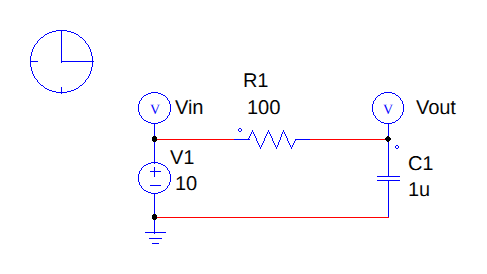
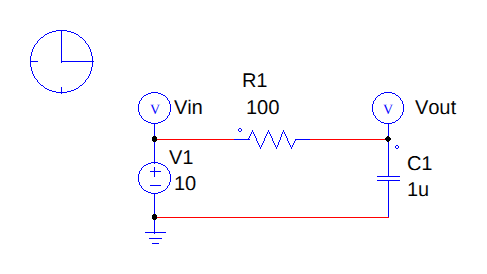
Make native-look text independent of Pillow's layout engine; add step-by-step skill guides
On macOS Pillow often has no raqm, so the basic engine's hinted advances
made the PSIM render one pixel wider than on Linux/Windows and failed CI.
Text is now laid out glyph by glyph with unhinted advances and no kerning,
as the native export does, giving byte-identical output with either engine.
A regression test forces the basic engine and compares the bytes.

Both SKILL.md files gain a step-by-step section: the command for each step,
the JSON field to read, fixes by finding code and a table of common errors.
Docs, README sample renders and figures are updated (PSIM 97.0%).

Claude-Session: https://claude.ai/code/session_01Tc6YNwJ4CGRcqr4sAM79Gj

diff --git a/skills/ad-schematic-layout/scripts/canvas.py b/skills/ad-schematic-layout/scripts/canvas.py
@@ -288,8 +288,16 @@ class Gdi(Svg):
         key = 'cjk' if _cjk(value) and 'cjk' in self.faces else family
         return self.faces.get(key) or self.faces.get('serif')
 
+    def font(self, face, pixels):
+        from PIL import ImageFont
+
+        key = (face['path'], face.get('index', 0), pixels)
+        if key not in self.fonts:
+            self.fonts[key] = ImageFont.truetype(face['path'], pixels, index=face.get('index', 0))
+        return self.fonts[key]
+
     def text(self, x, y, value, size, fill, family='serif', rotation=0, anchor='start', bold=False, italic=False):
-        from PIL import Image, ImageDraw, ImageFont
+        from PIL import Image, ImageDraw
 
         if not value:
             return
@@ -297,19 +305,27 @@ class Gdi(Svg):
         if face is None:
             raise RuntimeError('没有找到可用的 Times New Roman/Arial 或同度量字体')
         em = max(4, round(size * self.scale))
-        key = (face['path'], face.get('index', 0), em)
-        if key not in self.fonts:
-            self.fonts[key] = ImageFont.truetype(face['path'], em * 3, index=face.get('index', 0))
-        font = self.fonts[key]
-        horizontal = {'start': 'l', 'middle': 'm', 'end': 'r'}[anchor]
-        left, top, right, bottom = font.getbbox(value, anchor=horizontal + 's')
+        font = self.font(face, em * 3)
+        # 逐字排版：步进取大字号下的无微调步进，不做字距调整（GDI 的 TextOut 也不做）。Pillow 有没有
+        # raqm 排版引擎（Mac 上常没有）都得到同样的字位，原生预览的尺寸不随机器变化。
+        big = self.font(face, ADVANCE_SIZE)
+        pens, pen = [], 0.0
+        for char in value:
+            pens.append(pen)
+            pen += big.getlength(char) * em * 3 / ADVANCE_SIZE
+        pens = [p - {'start': 0, 'middle': pen / 2, 'end': pen}[anchor] for p in pens]
+        boxes = [(p + b[0], b[1], p + b[2], b[3]) for p, b in zip(pens, (font.getbbox(c, anchor='ls') for c in value))]
+        left, top = min(b[0] for b in boxes), min(b[1] for b in boxes)
+        right, bottom = max(b[2] for b in boxes), max(b[3] for b in boxes)
         pad = 2
         # 三倍分辨率绘制再折回：纵向三行合一，横向保留三个子像素做 1-2-3-2-1 滤波，得到 RGB 三路覆盖率。
         ax, ay = 3 * (pad + math.ceil(-left / 3)), 3 * (pad + math.ceil(-top / 3))
         width3 = ax + 3 * (math.ceil(right / 3) + pad)
         height3 = ay + 3 * (math.ceil(bottom / 3) + pad)
         mask = Image.new('L', (width3, height3), 0)
-        ImageDraw.Draw(mask).text((ax, ay), value, fill=255, font=font, anchor=horizontal + 's')
+        draw = ImageDraw.Draw(mask)
+        for char, p in zip(value, pens):
+            draw.text((ax + p, ay), char, fill=255, font=font, anchor='ls')
         coverage = _subpixel(_rows(mask))
         px, py = self.p(x, y)
         # GDI 把文字原点（基线）对齐到整像素。
@@ -452,6 +468,8 @@ def _find_faces(font_files, font_dirs):
 
 # 与原生导出逐像素比对标定：三行平均后把 20% 以下的覆盖率压为 0、80% 以上压满，接近 GDI 纵向的硬边。
 TEXT_EDGE = 0.2
+# 量字宽步进用的字号：字号够大时，basic 引擎取整后的步进与 raqm 的无微调步进相差不到 0.01 像素。
+ADVANCE_SIZE = 2048
 
 
 def _rows(mask):

diff --git a/skills/psim-simulation-layout/scripts/canvas.py b/skills/psim-simulation-layout/scripts/canvas.py
@@ -288,8 +288,16 @@ class Gdi(Svg):
         key = 'cjk' if _cjk(value) and 'cjk' in self.faces else family
         return self.faces.get(key) or self.faces.get('serif')
 
+    def font(self, face, pixels):
+        from PIL import ImageFont
+
+        key = (face['path'], face.get('index', 0), pixels)
+        if key not in self.fonts:
+            self.fonts[key] = ImageFont.truetype(face['path'], pixels, index=face.get('index', 0))
+        return self.fonts[key]
+
     def text(self, x, y, value, size, fill, family='serif', rotation=0, anchor='start', bold=False, italic=False):
-        from PIL import Image, ImageDraw, ImageFont
+        from PIL import Image, ImageDraw
 
         if not value:
             return
@@ -297,19 +305,27 @@ class Gdi(Svg):
         if face is None:
             raise RuntimeError('没有找到可用的 Times New Roman/Arial 或同度量字体')
         em = max(4, round(size * self.scale))
-        key = (face['path'], face.get('index', 0), em)
-        if key not in self.fonts:
-            self.fonts[key] = ImageFont.truetype(face['path'], em * 3, index=face.get('index', 0))
-        font = self.fonts[key]
-        horizontal = {'start': 'l', 'middle': 'm', 'end': 'r'}[anchor]
-        left, top, right, bottom = font.getbbox(value, anchor=horizontal + 's')
+        font = self.font(face, em * 3)
+        # 逐字排版：步进取大字号下的无微调步进，不做字距调整（GDI 的 TextOut 也不做）。Pillow 有没有
+        # raqm 排版引擎（Mac 上常没有）都得到同样的字位，原生预览的尺寸不随机器变化。
+        big = self.font(face, ADVANCE_SIZE)
+        pens, pen = [], 0.0
+        for char in value:
+            pens.append(pen)
+            pen += big.getlength(char) * em * 3 / ADVANCE_SIZE
+        pens = [p - {'start': 0, 'middle': pen / 2, 'end': pen}[anchor] for p in pens]
+        boxes = [(p + b[0], b[1], p + b[2], b[3]) for p, b in zip(pens, (font.getbbox(c, anchor='ls') for c in value))]
+        left, top = min(b[0] for b in boxes), min(b[1] for b in boxes)
+        right, bottom = max(b[2] for b in boxes), max(b[3] for b in boxes)
         pad = 2
         # 三倍分辨率绘制再折回：纵向三行合一，横向保留三个子像素做 1-2-3-2-1 滤波，得到 RGB 三路覆盖率。
         ax, ay = 3 * (pad + math.ceil(-left / 3)), 3 * (pad + math.ceil(-top / 3))
         width3 = ax + 3 * (math.ceil(right / 3) + pad)
         height3 = ay + 3 * (math.ceil(bottom / 3) + pad)
         mask = Image.new('L', (width3, height3), 0)
-        ImageDraw.Draw(mask).text((ax, ay), value, fill=255, font=font, anchor=horizontal + 's')
+        draw = ImageDraw.Draw(mask)
+        for char, p in zip(value, pens):
+            draw.text((ax + p, ay), char, fill=255, font=font, anchor='ls')
         coverage = _subpixel(_rows(mask))
         px, py = self.p(x, y)
         # GDI 把文字原点（基线）对齐到整像素。
@@ -452,6 +468,8 @@ def _find_faces(font_files, font_dirs):
 
 # 与原生导出逐像素比对标定：三行平均后把 20% 以下的覆盖率压为 0、80% 以上压满，接近 GDI 纵向的硬边。
 TEXT_EDGE = 0.2
+# 量字宽步进用的字号：字号够大时，basic 引擎取整后的步进与 raqm 的无微调步进相差不到 0.01 像素。
+ADVANCE_SIZE = 2048
 
 
 def _rows(mask):

diff --git a/skills/psim-simulation-layout/scripts/render.py b/skills/psim-simulation-layout/scripts/render.py
@@ -27,6 +27,8 @@ STROKE = 0.5
 NATIVE_MARGIN_PX = 30
 # 仿原生（gdi）默认比例与像素对齐：与 PSIM 2026 参考导出（dpi 120）逐像素比对标定，见 docs/VALIDATION.md。
 NATIVE_LOOK = {'scale': 1.555, 'offset': (0.5, 0.125)}
+# 原生导出不做字距调整，文字起点比按步进排出的位置偏左约 0.75 像素（同上标定；取可行区间的中点）。
+NATIVE_TEXT_DX_PX = -0.75
 
 
 def _bounds(plan):
@@ -147,10 +149,12 @@ def render_plan(plan, target, scale=None, margin=20, **canvas_options):
     for p, count in connections.items():
         if count >= 3 or (count >= 1 and any(inside(p, s) for s in wires)):
             canvas.ellipse(p[0] - shift[0], p[1] - shift[1], 1.5, 1.5, DOT, 0.3, DOT)
+    nudge = NATIVE_TEXT_DX_PX / canvas.sx if canvas.renderer == 'gdi' else 0
     for element in plan['elements']:
         for label in element.get('textlinks', []):
             x, baseline, em = text_origin(label)
-            canvas.text(x - shift[0], baseline - shift[1], display_text(element, label['FieldName']), em, TEXT, 'sans')
+            value = display_text(element, label['FieldName'])
+            canvas.text(x - shift[0] + nudge, baseline - shift[1], value, em, TEXT, 'sans')
     if canvas.renderer == 'gdi':
         # PSIM 原生导出以墨迹范围为准，四周各留 30 像素。
         canvas.crop_to_ink(NATIVE_MARGIN_PX)

diff --git a/tests/test_native_look.py b/tests/test_native_look.py
@@ -108,6 +108,26 @@ class NativeLook(unittest.TestCase):
         self.assertEqual(size, rendered)
         self.assertGreater(same, 0.95)
 
+    def test_render_does_not_depend_on_pillow_layout_engine(self):
+        # Mac 上的 Pillow 常没有 raqm，只能用 basic 引擎；两种引擎画出的图必须逐字节相同。
+        from PIL import ImageFont
+
+        truetype = ImageFont.truetype
+
+        def basic(*args, **kwargs):
+            return truetype(*args, layout_engine=ImageFont.Layout.BASIC, **kwargs)
+
+        with load(PSIM, 'canvas', 'render') as (canvas, render), tempfile.TemporaryDirectory() as d:
+            if not canvas.gdi_available():
+                self.skipTest('没有 Arial 或同度量字体')
+            default = Path(render.render_plan(plan(PSIM), Path(d) / 'default.png')['render']).read_bytes()
+            ImageFont.truetype = basic
+            try:
+                forced = Path(render.render_plan(plan(PSIM), Path(d) / 'basic.png')['render']).read_bytes()
+            finally:
+                ImageFont.truetype = truetype
+        self.assertEqual(default, forced)
+
     def test_svg_and_explicit_backends_are_unchanged(self):
         with load(PSIM, 'render') as (render,), tempfile.TemporaryDirectory() as d:
             self.assertEqual(render.render_plan(plan(PSIM), Path(d) / 'p.svg')['renderer'], 'svg')

diff --git a/skills/ad-schematic-layout/SKILL.md b/skills/ad-schematic-layout/SKILL.md
@@ -37,6 +37,32 @@ metadata:
 
 在 Mac/Linux 上工作时，用 `handoff` 准备完整任务目录，传到 Windows 双击 `run.bat`，再用 `receive` 校验接收。PNG 渲染默认仿 Windows 原生出图（RC 示例与原生导出尺寸相同，线条和文字像素 97.8% 在 1 像素内对齐），用来在没有 AD 时看效果；对外和最终确认仍以接收回来的原生 PNG 为准，接收器不重绘它。详见 [交接与结果一致性](references/handoff.md)。
 
+## 逐步操作（照着做）
+
+每条命令都在本技能目录下运行，打印 JSON。只按 JSON 里的字段判断成败，不凭感觉。
+
+1. **看环境。** `python scripts/native_ad.py env`，看本机有没有 AD、仿原生预览能不能用。没有 AD 也能生成 SchDoc，只是编译和原生出图要到 Windows 上做。
+2. **从示例开始写计划。** 把 [assets/rc-filter-plan.json](assets/rc-filter-plan.json) 复制成 `work/plan.json` 再改，不要从空白写起。`units` 固定 `"10mil"`，坐标向右、向上；R/C/L/Y 写 `ref`、`value`、`at`（中心）和 `vertical`；芯片和接插件写 `body` 与 `pins`（`number`、`name`、`at` 在框边上、`direction`）。`pin_map` 写每个引脚应属的网络，预检靠它核对连接。
+3. **坐标规则。** 引脚热端、导线端点、标号和电源端口锚点都在 10 的倍数上；导线点可以直接写 `"R1.1"` 这样的引脚名，斜线会自动补成直角折线；局部外围直接连线，跨区才用网络标号；电源符号朝上、地朝下，就近放在引脚处。
+4. **预检到 0 error。** `python scripts/native_ad.py check work/plan.json --preview draft.png`。看 `summary.errors`：
+   - 每条 finding 都有 `code`、`message`、`hint`，按 `hint` 改计划。
+   - 文字问题（`TEXT_OVERLAP`、`TEXT_ON_PART`、`TEXT_ON_GRAPHICS`、`TEXT_NEAR_LINE`、`OUTSIDE_BORDER`）不要手算坐标，写操作清单 `[{"op": "place_text", "all": true}]`，运行 `edit work/plan.json ops.json work/plan2.json`，再对新文件 `check`。
+   - `PART_OVERLAP` 用 `move` 拉开器件；`PIN_OFF_GRID` 把坐标改成 10 的倍数；`TOPOLOGY_MISMATCH` 说明导线和 `pin_map` 对不上，按 finding 里的引脚改导线；内容太散或太挤用 `fit_canvas`。
+   - 重复到 `errors` 为 0。warning 能改就改，留下的在交付说明里写理由。
+5. **离线预测。** `python scripts/native_ad.py preflight work/plan2.json preflight/`。`ready_for_windows` 为 true 才继续；为 false 时按 `blocking` 逐条修。`expected_warnings` 是预计的编译 warning（例如缺封装），要在交付说明里写明。
+6. **生成工程。** `python scripts/native_ad.py create work/plan2.json out/`，得到 `.SchDoc` 和 `.PrjPcb`。任何系统生成的文件都相同，拷到 Windows 双击 `.PrjPcb` 就能用 AD 打开。不要手写或改动 SchDoc 二进制。
+7. **Windows 原生确认。** 在装有 AD 的 Windows 上运行 `verify`（编译并比较网表）和 `export`（`text_review` 必须通过）。在 Mac/Linux 上就用 `handoff work/plan2.json job/`，把 `job/` 拷到 Windows 双击 `run.bat`，拿回 `native-results/` 后运行 `receive`。
+8. **交付。** `deliver out/ delivery/ --name 项目名`。
+
+常见错误：
+
+| 现象 | 处理 |
+| --- | --- |
+| `create` 拒绝写出 | 预检还有 error，回到第 4 步 |
+| Windows 上找不到 AD | 设置 `AD_EXE` 为 `X2.EXE` 的完整路径（带不带引号都行），再运行 |
+| `run.bat` 提示缺 Python 或 Pillow | 按窗口里给的命令安装 Python 3.11+ 和 Pillow 后重跑 |
+| 运放、MOSFET 都成了方框 | 基础生成器只画矩形器件和 R/C/L/Y，这类器件用原生库，见 [原生操作与电气检查](references/native-and-electrical.md) |
+
 ## 命令速查
 
 所有命令在本技能目录下运行，输出 JSON：

diff --git a/docs/VALIDATION.md b/docs/VALIDATION.md
@@ -45,7 +45,7 @@ PSIM 当前 RC 基准 CSV 与交接任务返回 CSV 的 SHA-256 相同：
 python -m unittest discover -s tests -v
 ```
 
-无需 AD 或 PSIM。CI 配置 Windows、macOS、Linux 与 Python 3.10/3.13；1.2.0 在本机 Windows/Python 3.12 运行 84 项测试，1.3.0 的修改在 Linux 上用 Python 3.10 和 3.13 运行 121 项（3.13 装 Pillow 13 和 resvg-py 时全部运行；Python 3.10 没有 Pillow 和 resvg-py，跳过仿原生出图等 6 项）。覆盖：
+无需 AD 或 PSIM。CI 配置 Windows、macOS、Linux 与 Python 3.10/3.13；1.2.0 在本机 Windows/Python 3.12 运行 84 项测试，1.3.0 的修改在 Linux 上用 Python 3.10 和 3.13 运行 122 项（3.13 装 Pillow 13 和 resvg-py 时全部运行；Python 3.10 没有 Pillow 和 resvg-py，跳过仿原生出图等 7 项）。覆盖：
 
 - 排版预检：两项示例 0 error、0 warning；悬空线、浮空标号、离栅格热端、隐式短接、不可编码字符等结构错误；文字重叠、穿件导线、四向连接、浮动标题、稀疏图面等版面问题；PSIM 的文字压符号、导线穿符号、仿真控制位置、参数写法。
 - SchDoc 读写：标准库读写复合文档；二进制引脚记录解码；示例生成文件的 SHA-256 固定（跨系统字节一致）；导入后重建的记录完全相同；各缩放比例下无源件热端在栅格上。
@@ -58,7 +58,7 @@ python -m unittest discover -s tests -v
 - 输入输出同路径保护、报告不得覆盖已有文件或本次生成的计划/检查文件、附加参数保留、模型关联拒绝静默丢失、GBK/UTF-8 文字解码。
 - 交接任务自包含、显式依赖、原生结果接收、文件被改动/请求错配/失败结果/路径越界拒收；计划目录外的依赖被拒绝；准备失败后目录可重用。
 - AD 预检草图输出 SVG（只用标准库）和 PNG（resvg-py 或 Pillow）。
-- 仿原生出图：AD、PSIM 的 RC 示例与仓库里的 Windows 原生导出逐像素比较，图像尺寸相同，线条和文字像素至少 95% 在 1 像素内对齐（实测 AD 97.8%、PSIM 97.1%，不计白底）；方法与前后对比见 [预览后端](preview-backends.md)。
+- 仿原生出图：AD、PSIM 的 RC 示例与仓库里的 Windows 原生导出逐像素比较，图像尺寸相同，线条和文字像素至少 95% 在 1 像素内对齐（实测 AD 97.8%、PSIM 97.0%，不计白底）；Pillow 有无 raqm 排版引擎出图逐字节相同（macOS 常没有 raqm）；方法与前后对比见 [预览后端](preview-backends.md)。
 - PSIM 文字定位：按"起点 = AREA 水平中心 - FormatFactor、字号 6/7·|FontSize|"估算的 7 段文字，与原生导出实测位置相差不超过 2 个单位；文字离电源太近时报出。
 - 文字重叠：两项预检把文字互相重叠列为 error，文字离线条不到 2 个单位报 `TEXT_NEAR_LINE`；`place_text` 把故意弄乱的 AD、PSIM 示例修到 0 个文字问题，没有问题的计划不改动，`all` 把挪开的文字放回标准位置。另在测试之外做过随机压力试验：AD 954 个随机弄乱的版面（其中 478 个器件间距只有 80–100、文字偏移达 ±50）、PSIM 1181 个（其中 590 个元件间距只有 70–90、文字偏移达 ±60），`place_text` 全部修到 0 个文字问题；`all` 放回标准位置后 AD 120 个、PSIM 200 个也都没有文字问题；行距只有 20 的 AD 梯形网络也修到 0 个文字问题。
 - 离线预仿真：RC 阶跃与解析解最大偏差小于 1e-4 V（实测约 3e-5 V），RL 阶跃电流、RC 正弦稳态幅值与解析值一致；遇到开关等元件拒绝；步长过粗报出。

diff --git a/CHANGELOG.md b/CHANGELOG.md
@@ -4,7 +4,7 @@
 
 ### 新增 / Added
 
-- 仿 Windows 原生出图（`--renderer gdi`，PNG 默认）：按仓库里的原生导出逐像素标定比例、线宽、取整和 ClearType 式文字；RC 示例与原生图尺寸相同，线条和文字像素 AD 97.8%、PSIM 97.1% 在 1 像素内对齐（不计白底）。优先用系统的 Times New Roman/Arial，没有时用字宽相同的 Liberation 字体；`env` 显示所用字体。
+- 仿 Windows 原生出图（`--renderer gdi`，PNG 默认）：按仓库里的原生导出逐像素标定比例、线宽、取整和 ClearType 式文字；RC 示例与原生图尺寸相同，线条和文字像素 AD 97.8%、PSIM 97.0% 在 1 像素内对齐（不计白底）。优先用系统的 Times New Roman/Arial，没有时用字宽相同的 Liberation 字体；`env` 显示所用字体。
 - `preflight`：上 Windows 前的离线预测。AD 给出预计的编译 error/warning（RC 示例预测 4 条缺少封装，与实测一致）和网表对照；PSIM 给出仿原生预览和离线预仿真。`ready_for_windows` 为 true 时没有已知阻碍。
 - `presim`（PSIM）：用与 PSIM 同类的算法（节点分析 + 固定步长梯形积分）离线预仿真 R、L、C、直流源、正弦源和电压探头组成的线性电路，输出 CSV 并检查步长和时长；其他元件直接拒绝。
 - 交接任务带上离线预测；Windows 运行后返回清单的 `forecast` 记录预测与实际的对照。
@@ -24,6 +24,8 @@
 - 32 位或 ARM64 的 Python 载入 PSIM 接口失败时，报出当前 Python 的架构并提示改用与 PSIM 相同架构的 Python。
 - `PSIM_DIR`、`AD_EXE` 带引号也能找到（资源管理器“复制文件地址”和 `set X="..."` 会把引号带进去）；`build.bat` 不再把 `PSIM_DIR` 作为参数转交，以反斜杠结尾的路径不会再把后面的参数吞掉。
 - AD 左右朝向的电源端口名称按 AD 的规则从符号末端向外读，不再误报压在自己的符号上。
+- 仿原生出图逐字排版：字宽取无微调步进，不做字距调整（与原生导出一致）；Mac 上 Pillow 没有 raqm 排版引擎时也得到与 Linux、Windows 相同的图像尺寸和像素。
+- 两个 SKILL.md 增加“逐步操作（照着做）”：每一步的命令、要看的 JSON 字段、按 finding 代码的处理方法和常见错误表。
 - MCP 的 `--with` 相对路径先按当前目录找，找不到再按 `mcp_server.py` 所在目录找；目录里没有 `mcp_tools.py` 时直接报错，不再启动后崩溃。
 
 This release adds a Windows-look renderer calibrated against native exports, offline forecasts (`preflight`), linear PSIM pre-simulation (`presim`), automatic label placement (`place_text`) and one-click opening on Windows. Overlapping text is now an error in both checkers. `build.bat` and `run.bat` check Python first, keep the window open on failure and can simply be run again after a fix. psimsch remains PSIM's closed format: it is written by PSIM itself on Windows and then opened automatically.

diff --git a/README.en.md b/README.en.md
@@ -21,7 +21,7 @@ Use them as skills in Claude Code, Codex, Gemini CLI, GitHub Copilot, Cursor, Op
 | Windows native export | ![AD native export](docs/images/ad-native-rc.png) | ![PSIM native export](docs/images/psim-native-rc.png) |
 | Mac/Linux Windows-look render (no AD/PSIM) | ![AD Windows-look render](docs/images/ad-rc-render.png) | ![PSIM Windows-look render](docs/images/psim-rc-render.png) |
 
-The second row was produced by this package on Linux without AD or PSIM. Compared pixel by pixel with the Windows native exports in the first row, the images have the same size, and counting only lines and text (not the white background) 97.8% (AD) and 97.1% (PSIM) of the pixels line up within one pixel; the remaining differences are mostly anti-aliasing at text edges. The method is in [docs/VALIDATION.md](docs/VALIDATION.md).
+The second row was produced by this package on Linux without AD or PSIM. Compared pixel by pixel with the Windows native exports in the first row, the images have the same size, and counting only lines and text (not the white background) 97.8% (AD) and 97.0% (PSIM) of the pixels line up within one pixel; the remaining differences are mostly anti-aliasing at text edges. The method is in [docs/VALIDATION.md](docs/VALIDATION.md).
 
 ## What it does
 
@@ -151,6 +151,8 @@ After the check passes, generate the new drawing and show me a render.
 ```
 
 The more precisely the request names parts, values, reference drawings and deliverables, the closer the result.
+
+Each SKILL.md has a step-by-step section: start from the example plan, and for every step it names the command to run, the JSON field to read and the fix for each kind of finding, so that a less capable model can follow it through to a check with 0 errors and then to files that open on Windows.
 
 ### Command line
 

diff --git a/skills/psim-simulation-layout/references/commands.md b/skills/psim-simulation-layout/references/commands.md
@@ -108,7 +108,7 @@ kit/
 
 ## 截图
 
-`render` 的 PNG 后端用 `--renderer auto|gdi|resvg|pillow` 选择。`auto` 在有 Pillow 和 Arial（或同度量的 Liberation Sans）时用 `gdi`：按 PSIM 原生导出（dpi 120）标定的像素比例 1.555 像素/单位、四周 30 像素留白、1 像素线条，文字起点按 AREA 水平中心 - FormatFactor、字号 6/7·|FontSize|，RC 示例与原生导出尺寸相同、线条和文字像素 97.1% 在 1 像素内对齐；没有时退回 resvg 或 Pillow 平滑渲染。未标定的元件画成带类型名的方框。`--font-file` / `--font-dir` 可指定字体文件；`--no-system-fonts` 只用于 resvg。渲染不求解电路；与实际 PSIM 图面一致的最终结果仍应接收 Windows 原生 PNG。
+`render` 的 PNG 后端用 `--renderer auto|gdi|resvg|pillow` 选择。`auto` 在有 Pillow 和 Arial（或同度量的 Liberation Sans）时用 `gdi`：按 PSIM 原生导出（dpi 120）标定的像素比例 1.555 像素/单位、四周 30 像素留白、1 像素线条，文字起点按 AREA 水平中心 - FormatFactor、字号 6/7·|FontSize|，RC 示例与原生导出尺寸相同、线条和文字像素 97.0% 在 1 像素内对齐；没有时退回 resvg 或 Pillow 平滑渲染。未标定的元件画成带类型名的方框。`--font-file` / `--font-dir` 可指定字体文件；`--no-system-fonts` 只用于 resvg。渲染不求解电路；与实际 PSIM 图面一致的最终结果仍应接收 Windows 原生 PNG。
 
 `screenshot` 在 Windows 找到 PSIM 且输入是 psimsch 时：启动 PSIM 打开模型，等窗口标题出现模型名，最大化后截取整个窗口。其他情况按计划 JSON 仿原生渲染，结果里 `source` 为 `portable_render`。截已打开的窗口：`python scripts/capture.py "PSIM" shot.png`。
 

diff --git a/docs/preview-backends.md b/docs/preview-backends.md
@@ -16,12 +16,12 @@
 
 | | 图像尺寸 | 线条和文字像素在 1 像素内对齐 | 线条和文字像素颜色一致 |
 | --- | --- | --- | --- |
-| AD：原平滑渲染 → gdi | 不同 → 相同 | 96.7% → 97.8% | 46.0% → 73.7% |
-| PSIM：原平滑渲染 → gdi | 不同 → 相同 | 57.2% → 97.1% | 0.9% → 30.9% |
+| AD：原平滑渲染 → gdi | 不同 → 相同 | 96.7% → 97.8% | 46.0% → 72.5% |
+| PSIM：原平滑渲染 → gdi | 不同 → 相同 | 57.2% → 97.0% | 0.9% → 31.5% |
 
 只统计线条和文字像素（任一张图在该处有墨迹），不把白底算进一致率。颜色不一致的主要是文字抗锯齿：Windows 的 TrueType 微调和 ClearType 无法逐像素复现。原生导出的像素比例取决于导出机器的设置，换一台电脑导出时可用 `--scale` 对齐；未标定的 PSIM 元件仍画成方框。
 
-The default `gdi` backend is calibrated against the native exports in the repository: same image size, and for line and text pixels (white background excluded) 97.8% (AD) and 97.1% (PSIM) align within one pixel. Text anti-aliasing is the main remaining difference.
+The default `gdi` backend is calibrated against the native exports in the repository: same image size, and for line and text pixels (white background excluded) 97.8% (AD) and 97.0% (PSIM) align within one pixel. Text anti-aliasing is the main remaining difference.
 
 ## 选择依据 / Choice
 
